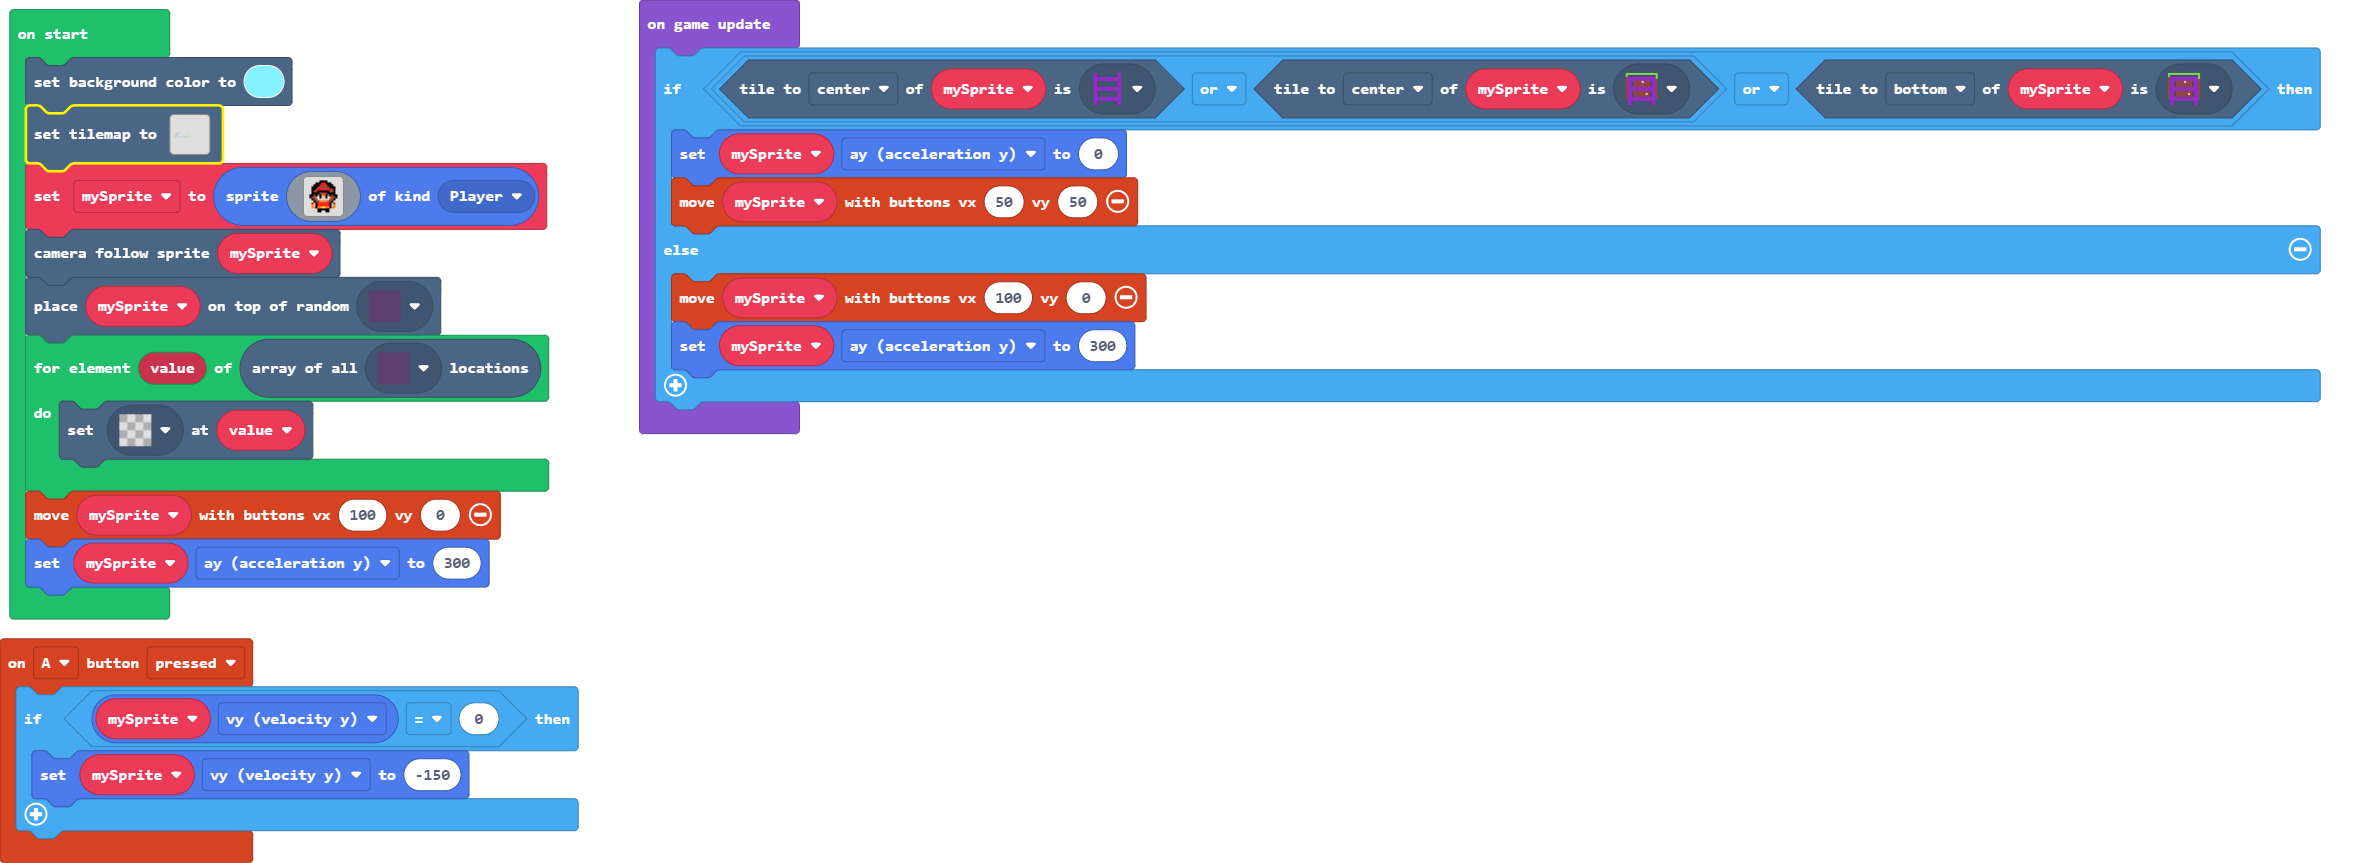
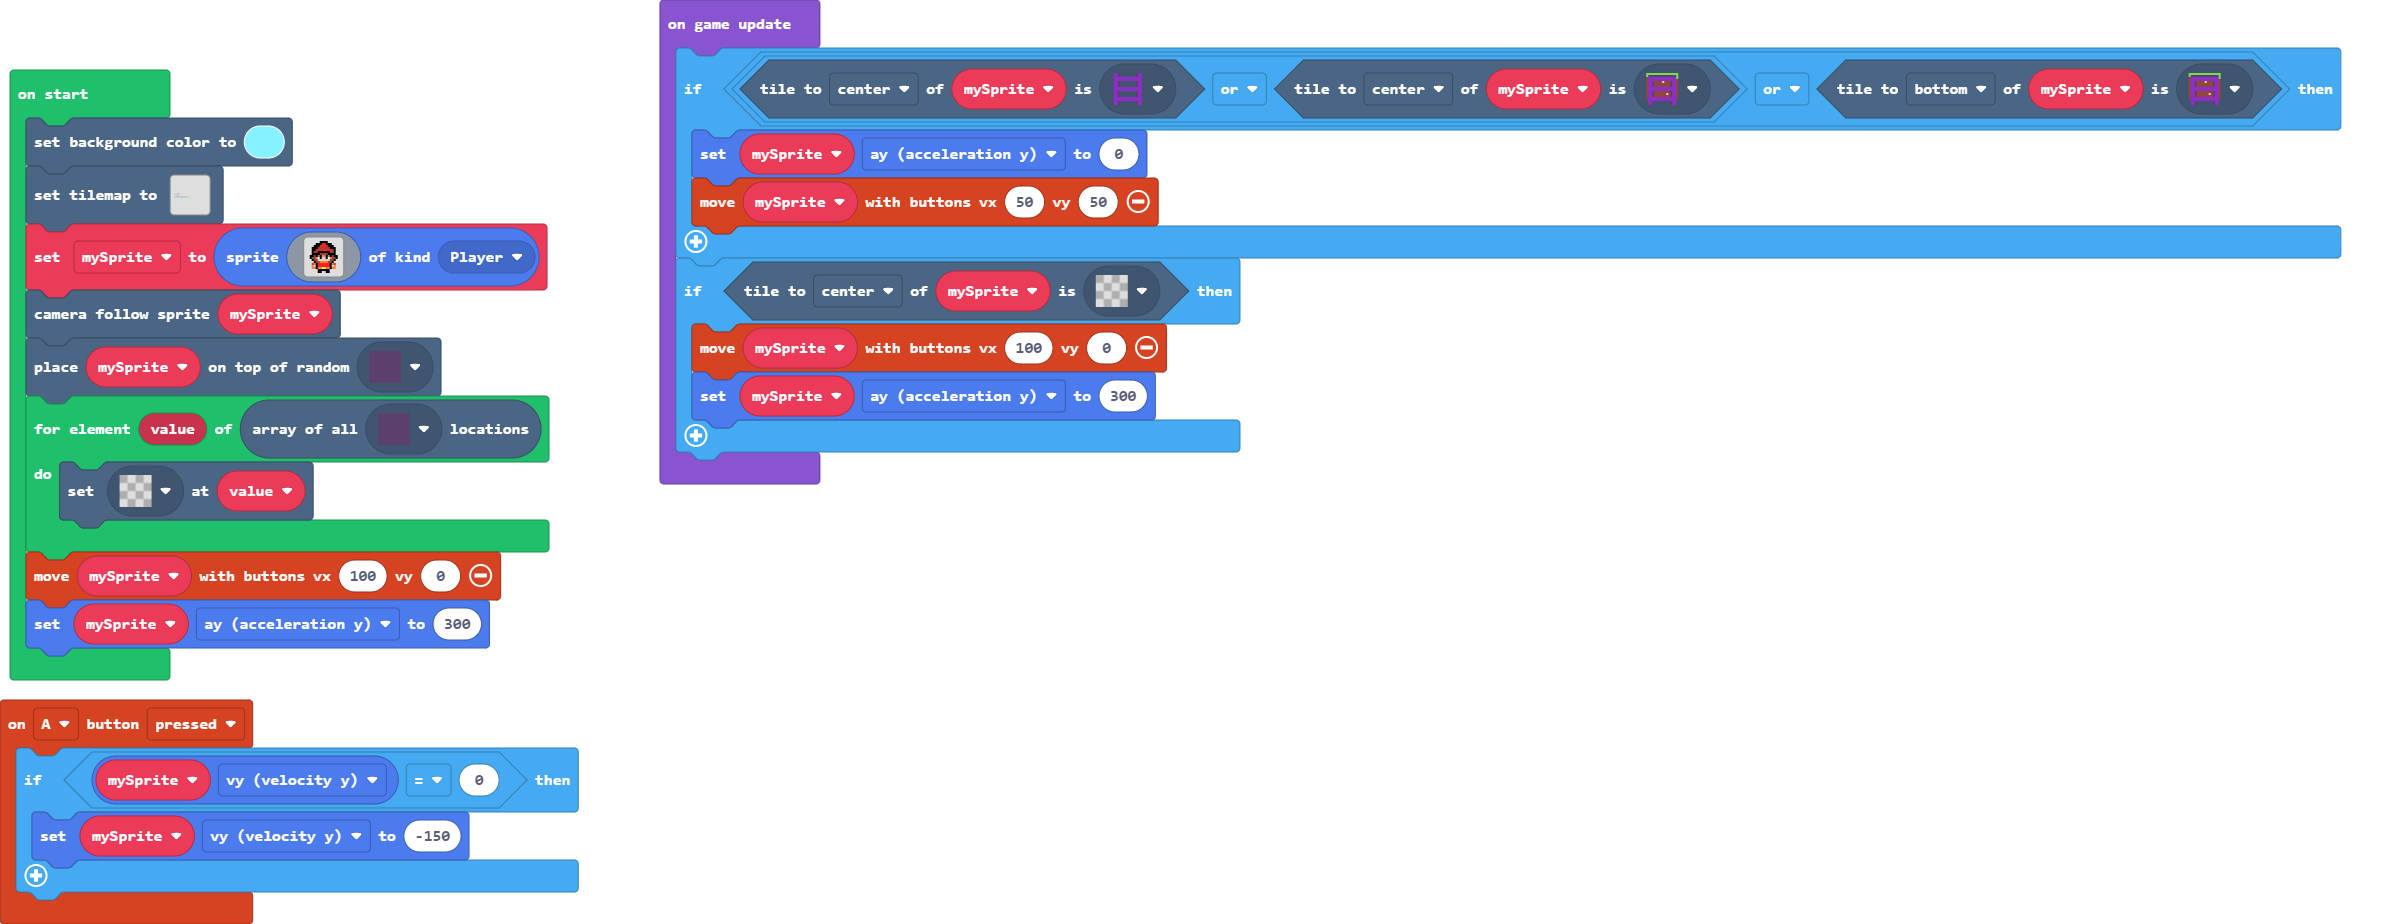
Update main.blocks, main.ts, tilemap.g.jres, tilemap.g.ts, images.g.jres, images.g.ts

Changed region(s): [[0.0, 0.0, 0.9983, 0.9641], [0.0936, 0.9641, 0.1248, 0.9942]]

diff --git a/tilemap.g.ts b/tilemap.g.ts
@@ -5,8 +5,6 @@ namespace myTiles {
     //% fixedInstance jres blockIdentity=images._tile
     export const tile1 = image.ofBuffer(hex``);
     //% fixedInstance jres blockIdentity=images._tile
-    export const tile2 = image.ofBuffer(hex``);
-    //% fixedInstance jres blockIdentity=images._tile
     export const tile6 = image.ofBuffer(hex``);
     //% fixedInstance jres blockIdentity=images._tile
     export const tile7 = image.ofBuffer(hex``);
@@ -14,11 +12,15 @@ namespace myTiles {
     export const tile3 = image.ofBuffer(hex``);
     //% fixedInstance jres blockIdentity=images._tile
     export const tile4 = image.ofBuffer(hex``);
+    //% fixedInstance jres blockIdentity=images._tile
+    export const tile2 = image.ofBuffer(hex``);
+    //% fixedInstance jres blockIdentity=images._tile
+    export const tile5 = image.ofBuffer(hex``);
 
     helpers._registerFactory("tilemap", function(name: string) {
         switch(helpers.stringTrim(name)) {
             case "level1":
-            case "level1":return tiles.createTilemap(hex`500010000000000000000000000000000000000000000000000000000000000000000000000000000000000000000000000000000000000000000000000000000000000000000000000000000000000000000000000000000000000000000000000000000000000000000000000000000000000000000000000000000000000000000000000000000000000000000000000000000000000000000000000000000000000000000000000000000000000000000000000000000000000000000000000000000000000000000000000000000000000000000000000000000000000000000000000000000000000000000000000000000000000000000000000000000000000000000000000000000000000000000000000000000000000000000000000000000000000000000000000000000000000000000000000000000000000000000000000000000000000000000000000000000000000000000000000000000000000000000000000000000000000000000000000000000000000000000000000000000000000000000000000000000000000000000000000000010601010101010101000000000000000000000000000000000000000000000000000000000000000000000000000000000000000000000000000000000000000000000000000000000300000000000000050000000000000000000000000000000000000000000000000000000000000000000000000000000000000000000000000000000000000000000000000000000000000000000000000000000000000005000000000000000000000000000000000000000000000000000000000000000000000000000000000000000000000000000000000000000000000000000000000000000000000000000000000000000500000000000000000000000000000000000000000000000000000000000000000000000000000000000000000000000000000000000000000000000000000000000000000000000000000000000000050000000000000000000000000000000000000000000000000000000000000000000000000000000000000000000000000000000000000000000000000000000000000000000000010101010100000005000000000000000000000000000000000000000000000000000000000000000000000000000000000000000000000000000000000000000000000000000000000000000000000000000000000000000500000000000000000000000000000000000000000000000000000000000000000000000000000000000000000000000000000000000000000000000000000000000000000000000000000000010101010100000000000000000000000000000000000000000000000000000005000000000000000000000000000000000000000000000000000000000000000000000000000000000000000000000000000000000000000000000000000000000000000000000000000000000000000500000000000000000000000000000000000000000000000000000000000000000000000000000000000000000000000000000000000000000000000000000000000000000000000000000000000000050000000000000000000000000000000000000000000000000000000000000000000000000000000000000202020202020202020202020202020202020202020202020202020202020202020204040404040404040404040404040000000000000000000000000000000000000000000000000000000000000000`, img`
+            case "level1":return tiles.createTilemap(hex`500010000000000000000000000000000000000000000000000000000000000000000000000000000000000000000000000000000000000000000000000000000000000000000000000000000000000000000000000000000000000000000000000000000000000000000000000000000000000000000000000000000000000000000000000000000000000000000000000000000000000000000000000000000000000000000000000000000000000000000000000000000000000000000000000000000000000000000000000000000000000000000000000000000000000000000000000000000000000000000000000000000000000000000000000000000000000000000000000000000000000000000000000000000000000000000000000000000000000000000000000000000000000000000000000000000000000000000000000000000000000000000000000000000000000000000000000000000000000000000000000000000000000000000000000000000000000000000000000000000000000000000000000000000000000000000000000000010601010101010101000000000000000000000000000000000000000000000000000000000000000000000000000000000000000000000000000000000000000000000000000000000300000000000000050000000000000000000000000000000000000000000000000000000000000000000000000000000000000000000000000000000000000000000000000000000000000000000000000000000000000005000000000000000000000000000000000000000000000000000000000000000000000000000000000000000000000000000000000000000000000000000000000000000000000000000000000000000500000000000000000000000000000000000000000000000000000000000000000000000000000000000000000000000000000000000000000000000000000000000000000000000101010101000000050000000000000000000000000000000000000000000000000000000000000000000000000000000000000000000000000000000000000000000000000000000000000000000000000000000000000005000000000000000000000000000000000000000000000000000000000000000000000000000000000000000000000000000000000000000000000000000000000000000000000000000000000001010101000000000000000000000000000000000000000000000000000000000000000000000000000000000000000000000000000000000000000000000000000000000000000000000000000000000000000000000000000000000000000000000000000000000000000000000005000000000000000000000000000000000000000000000000000000000000000000000000000000000000000000000000000000000000000000000000000000000000000000000000000000000000000500000000000000000000000000000000000000000000000000000000000000000000000000000000000002020202020202020202020202020202020202020202020202020202020202020202040404040404040404040404040400000000000000000000000000000000000000000000000000000000000000000707070707070707070707070707070707070707070707070707070707070707070700000000000000000000000000000000000000000000000000000000000000000000000000000000000000000000`, img`
 ................................................................................
 ................................................................................
 ................................................................................
@@ -28,14 +30,14 @@ namespace myTiles {
 ................................................................................
 ................................................................................
 ................................................................................
-................................................................................
 22222...........................................................................
 ................................................................................
-.....22222......................................................................
+......2222......................................................................
 ................................................................................
 ................................................................................
+..................................22222222222222................................
 222222222222222222222222222222222222222222222222................................
-`, [myTiles.transparency16,myTiles.tile1,myTiles.tile2,myTiles.tile6,myTiles.tile7,myTiles.tile3,myTiles.tile4], TileScale.Sixteen);
+`, [myTiles.transparency16,myTiles.tile1,myTiles.tile2,myTiles.tile6,myTiles.tile7,myTiles.tile3,myTiles.tile4,myTiles.tile5], TileScale.Sixteen);
         }
         return null;
     })
@@ -44,11 +46,12 @@ namespace myTiles {
         switch(helpers.stringTrim(name)) {
             case "transparency16":return transparency16;
             case "tile1":return tile1;
-            case "tile2":return tile2;
             case "tile6":return tile6;
             case "tile7":return tile7;
             case "tile3":return tile3;
             case "tile4":return tile4;
+            case "tile2":return tile2;
+            case "tile5":return tile5;
         }
         return null;
     })

diff --git a/images.g.ts b/images.g.ts
@@ -3,24 +3,7 @@ namespace myImages {
 
     helpers._registerFactory("image", function(name: string) {
         switch(helpers.stringTrim(name)) {
-            case "image1":return img`
-. . . . . . f f f f . . . . . . 
-. . . . f f f 2 2 f f f . . . . 
-. . . f f f 2 2 2 2 f f f . . . 
-. . f f f e e e e e e f f f . . 
-. . f f e 2 2 2 2 2 2 e e f . . 
-. . f e 2 f f f f f f 2 e f . . 
-. . f f f f e e e e f f f f . . 
-. f f e f b f 4 4 f b f e f f . 
-. f e e 4 1 f d d f 1 4 e e f . 
-. . f e e d d d d d d e e f . . 
-. . . f e e 4 4 4 4 e e f . . . 
-. . e 4 f 2 2 2 2 2 2 f 4 e . . 
-. . 4 d f 2 2 2 2 2 2 f d 4 . . 
-. . 4 4 f 4 4 5 5 4 4 f 4 4 . . 
-. . . . . f f f f f f . . . . . 
-. . . . . f f . . f f . . . . . 
-`;
+
         }
         return null;
     })

diff --git a/main.ts b/main.ts
@@ -35,7 +35,8 @@ game.onUpdate(function () {
     if (mySprite.tileKindAt(TileDirection.Center, assets.tile`tile3`) || mySprite.tileKindAt(TileDirection.Center, assets.tile`tile4`) || mySprite.tileKindAt(TileDirection.Bottom, assets.tile`tile4`)) {
         mySprite.ay = 0
         controller.moveSprite(mySprite, 50, 50)
-    } else {
+    }
+    if (mySprite.tileKindAt(TileDirection.Center, assets.tile`transparency16`)) {
         controller.moveSprite(mySprite, 100, 0)
         mySprite.ay = 300
     }
